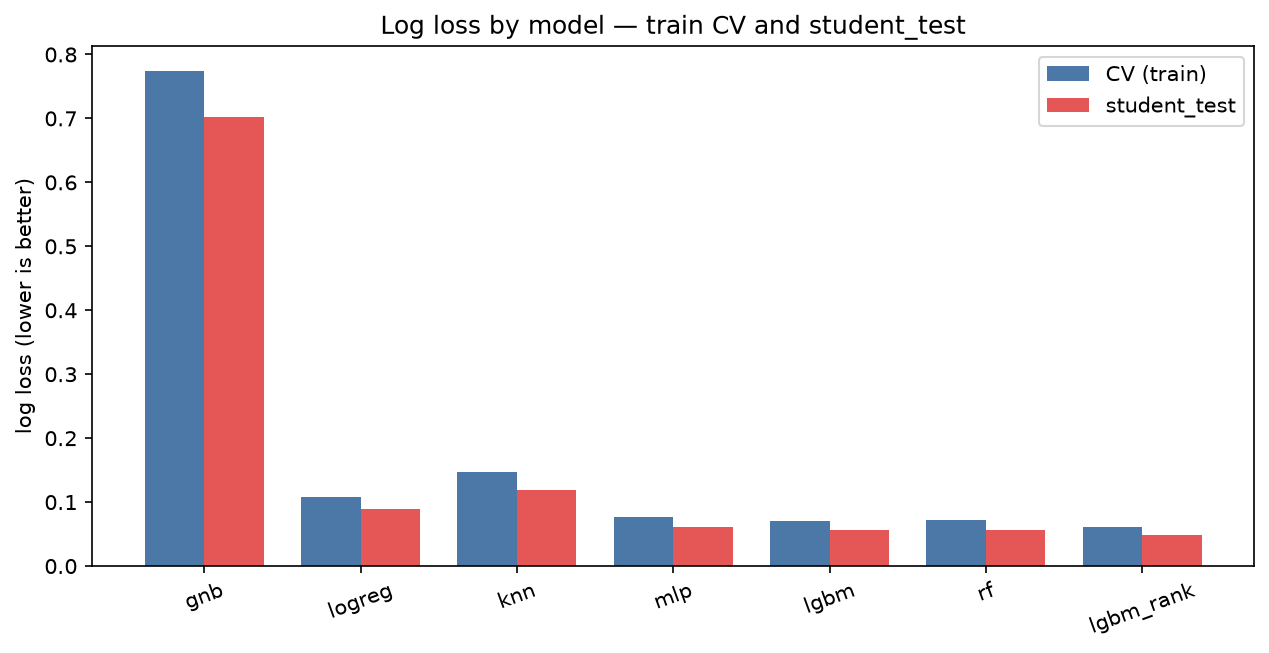
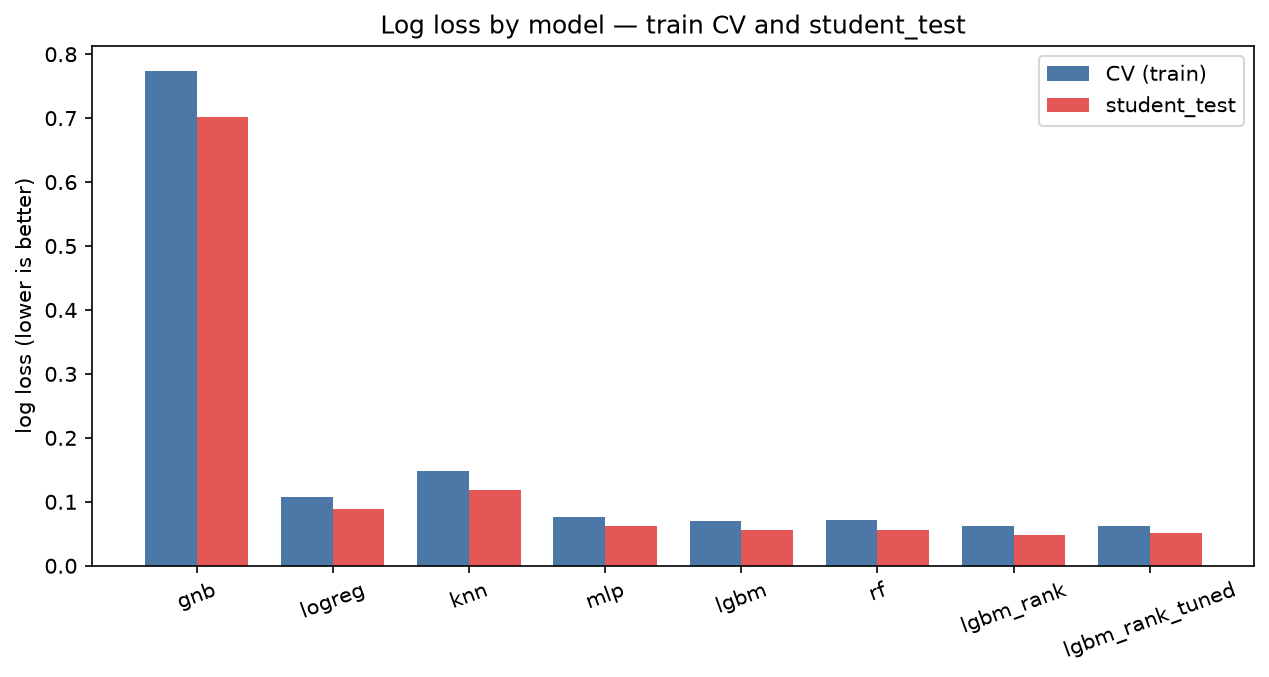
P5: Bayesian hyperparameter optimisation of lgbm_rank
- scripts/tune_optuna.py: Optuna TPE (seed 42), objective mean GroupKFold(5)
  macro-F1 on train, median pruning, every 4th observation per trip
- results/optuna: 60 trials (32 complete, 28 pruned, 30 min), best params,
  search space, optimisation history and parameter importance plots
- lgbm_rank_tuned refit with the P4 procedure: CV macro-F1 0.936 -> 0.937,
  train-vs-CV Top-1 gap 0.078 -> 0.022, student_test Top-1 0.889 -> 0.890

diff --git a/scripts/tune_optuna.py b/scripts/tune_optuna.py
@@ -1,0 +1,146 @@
+"""P5 — Bayesian hyperparameter optimisation (Optuna TPE) for the chosen model.
+
+Objective: mean macro-F1 over GroupKFold(5) on the 80 train trips (a trip never spans folds).
+Top-1 accuracy is recorded for every trial as well. The evaluator partition is never used,
+and student_test is NOT used during the search (only for the final tuned-vs-untuned report).
+
+Cost control (stated in the report):
+  * temporal thinning — trials use every ``--thin``-th GPS observation per trip; points 1 s
+    apart are near-duplicates, so this keeps the information while cutting rows ~``thin``x
+  * median pruning — a trial whose running fold score is below the median of earlier trials
+    after the first 2 folds is stopped early
+
+After the search the best parameters are refit with exactly the P4 procedure
+(scripts.train_models.run_model: full data, same folds, same metrics, student_test) and added
+to results/models/model_comparison.csv as ``<model>_tuned``.
+
+Outputs (results/optuna/): trials.csv, best_params.json, search_space.json,
+                           optimisation_history.png, param_importance.png
+Run: python -m scripts.tune_optuna --model lgbm_rank --trials 60
+"""
+from __future__ import annotations
+
+import argparse
+import json
+import time
+
+import matplotlib
+matplotlib.use("Agg")
+import matplotlib.pyplot as plt
+import numpy as np
+import optuna
+import pandas as pd
+from sklearn.model_selection import GroupKFold
+
+from pathsnap.io import REPO_ROOT
+from pathsnap.metrics import all_metrics
+from pathsnap.models import SEED, get_model
+from scripts.train_models import load_features, run_model
+
+OUT = REPO_ROOT / "results" / "optuna"
+
+# search spaces: (type, low, high[, log]) — justified in the report
+SPACES = {
+    "lgbm_rank": {"n_estimators": ("int", 100, 800), "learning_rate": ("float", 0.01, 0.2, True),
+                  "num_leaves": ("int", 15, 255, True), "min_child_samples": ("int", 10, 300, True),
+                  "subsample": ("float", 0.5, 1.0), "colsample_bytree": ("float", 0.5, 1.0),
+                  "reg_lambda": ("float", 1e-3, 10.0, True)},
+    "lgbm": {"n_estimators": ("int", 100, 800), "learning_rate": ("float", 0.01, 0.2, True),
+             "num_leaves": ("int", 15, 255, True), "min_child_samples": ("int", 10, 300, True),
+             "subsample": ("float", 0.5, 1.0), "colsample_bytree": ("float", 0.5, 1.0),
+             "reg_lambda": ("float", 1e-3, 10.0, True)},
+    "rf": {"n_estimators": ("int", 100, 500), "max_depth": ("int", 6, 40, True),
+           "min_samples_leaf": ("int", 1, 50, True), "max_features": ("float", 0.2, 1.0)},
+    "logreg": {"C": ("float", 1e-3, 100.0, True)},
+}
+FIXED = {"lgbm_rank": {"subsample_freq": 1}, "lgbm": {"subsample_freq": 1}}
+
+
+def suggest(trial: optuna.Trial, space: dict) -> dict:
+    p = {}
+    for k, spec in space.items():
+        kind, lo, hi, *log = spec
+        log = bool(log and log[0])
+        p[k] = trial.suggest_int(k, lo, hi, log=log) if kind == "int" else trial.suggest_float(k, lo, hi, log=log)
+    return p
+
+
+def thin(df: pd.DataFrame, every: int) -> pd.DataFrame:
+    return df[df.obs_idx % every == 0] if every > 1 else df
+
+
+def main():
+    ap = argparse.ArgumentParser(description=__doc__, formatter_class=argparse.RawDescriptionHelpFormatter)
+    ap.add_argument("--model", required=True, choices=list(SPACES))
+    ap.add_argument("--trials", type=int, default=60)
+    ap.add_argument("--thin", type=int, default=4)
+    ap.add_argument("--max-trips", type=int, default=None, help="dry run only")
+    ap.add_argument("--no-refit", action="store_true")
+    a = ap.parse_args()
+    OUT.mkdir(parents=True, exist_ok=True)
+
+    train = load_features("train", a.max_trips)
+    sub = thin(train, a.thin).reset_index(drop=True)
+    folds = list(GroupKFold(n_splits=min(5, sub.trip_id.nunique())).split(sub, groups=sub.trip_id))
+    print(f"search data: {sub.trip_id.nunique()} trips, {len(sub):,} rows (every {a.thin}th observation)")
+
+    def objective(trial):
+        params = {**suggest(trial, SPACES[a.model]), **FIXED.get(a.model, {})}
+        f1s, tops = [], []
+        for k, (tr, va) in enumerate(folds):
+            m = get_model(a.model, **params).fit(sub.iloc[tr])
+            met = all_metrics(sub.iloc[va].assign(p=m.predict_proba(sub.iloc[va])))
+            f1s.append(met["macro_f1"]); tops.append(met["top1"])
+            trial.report(float(np.mean(f1s)), k)
+            if trial.should_prune():
+                trial.set_user_attr("top1", float(np.mean(tops)))
+                raise optuna.TrialPruned()
+        trial.set_user_attr("top1", float(np.mean(tops)))
+        trial.set_user_attr("macro_f1_std", float(np.std(f1s, ddof=1)) if len(f1s) > 1 else 0.0)
+        return float(np.mean(f1s))
+
+    study = optuna.create_study(direction="maximize", study_name=f"{a.model}_macro_f1",
+                                sampler=optuna.samplers.TPESampler(seed=SEED),
+                                pruner=optuna.pruners.MedianPruner(n_startup_trials=8, n_warmup_steps=1))
+    optuna.logging.set_verbosity(optuna.logging.WARNING)
+    t0 = time.time()
+    study.optimize(objective, n_trials=a.trials,
+                   callbacks=[lambda s, t: print(f"trial {t.number:3d} {t.state.name:8s} "
+                                                 f"value={t.value if t.value is not None else float('nan'):.4f} "
+                                                 f"best={s.best_value:.4f} ({time.time() - t0:.0f}s)", flush=True)])
+    search_s = time.time() - t0
+
+    trials = study.trials_dataframe(attrs=("number", "value", "state", "params", "user_attrs", "duration"))
+    trials["duration_s"] = trials.pop("duration").dt.total_seconds()
+    trials.to_csv(OUT / "trials.csv", index=False)
+    best = {**study.best_params, **FIXED.get(a.model, {})}
+    (OUT / "best_params.json").write_text(json.dumps({"model": a.model, "best_cv_macro_f1_thinned": study.best_value,
+                                                      "best_trial": study.best_trial.number, "params": best}, indent=2))
+    (OUT / "search_space.json").write_text(json.dumps({
+        "model": a.model, "space": SPACES[a.model], "fixed": FIXED.get(a.model, {}),
+        "objective": "mean macro-F1, GroupKFold(5) by trip, train partition",
+        "sampler": "TPESampler(seed=42)", "pruner": "MedianPruner(n_startup_trials=8, n_warmup_steps=1)",
+        "n_trials": a.trials, "thin_every": a.thin, "search_rows": len(sub),
+        "n_complete": sum(t.state.name == "COMPLETE" for t in study.trials),
+        "n_pruned": sum(t.state.name == "PRUNED" for t in study.trials),
+        "search_seconds": round(search_s, 1)}, indent=2))
+
+    from optuna.visualization.matplotlib import plot_optimization_history, plot_param_importances
+    ax = plot_optimization_history(study); ax.set_title(f"Optuna optimisation history — {a.model} (train CV macro-F1)")
+    ax.figure.savefig(OUT / "optimisation_history.png", dpi=150, bbox_inches="tight"); plt.close("all")
+    try:
+        ax = plot_param_importances(study); ax.set_title(f"Hyperparameter importance (fANOVA) — {a.model}")
+        ax.figure.savefig(OUT / "param_importance.png", dpi=150, bbox_inches="tight"); plt.close("all")
+    except Exception as exc:  # needs >= 2 completed trials with varied params
+        print("param importance skipped:", exc)
+    print(f"search done in {search_s:.0f}s; best thinned CV macro-F1 {study.best_value:.4f} with {best}")
+
+    if not a.no_refit:
+        test = load_features("student_test", a.max_trips)
+        print("refitting tuned model with the P4 procedure ...")
+        run_model(a.model, train, test, REPO_ROOT / "results" / "models", save_oof=True, params=best,
+                  label=f"{a.model}_tuned")
+
+
+if __name__ == "__main__":
+    main()
